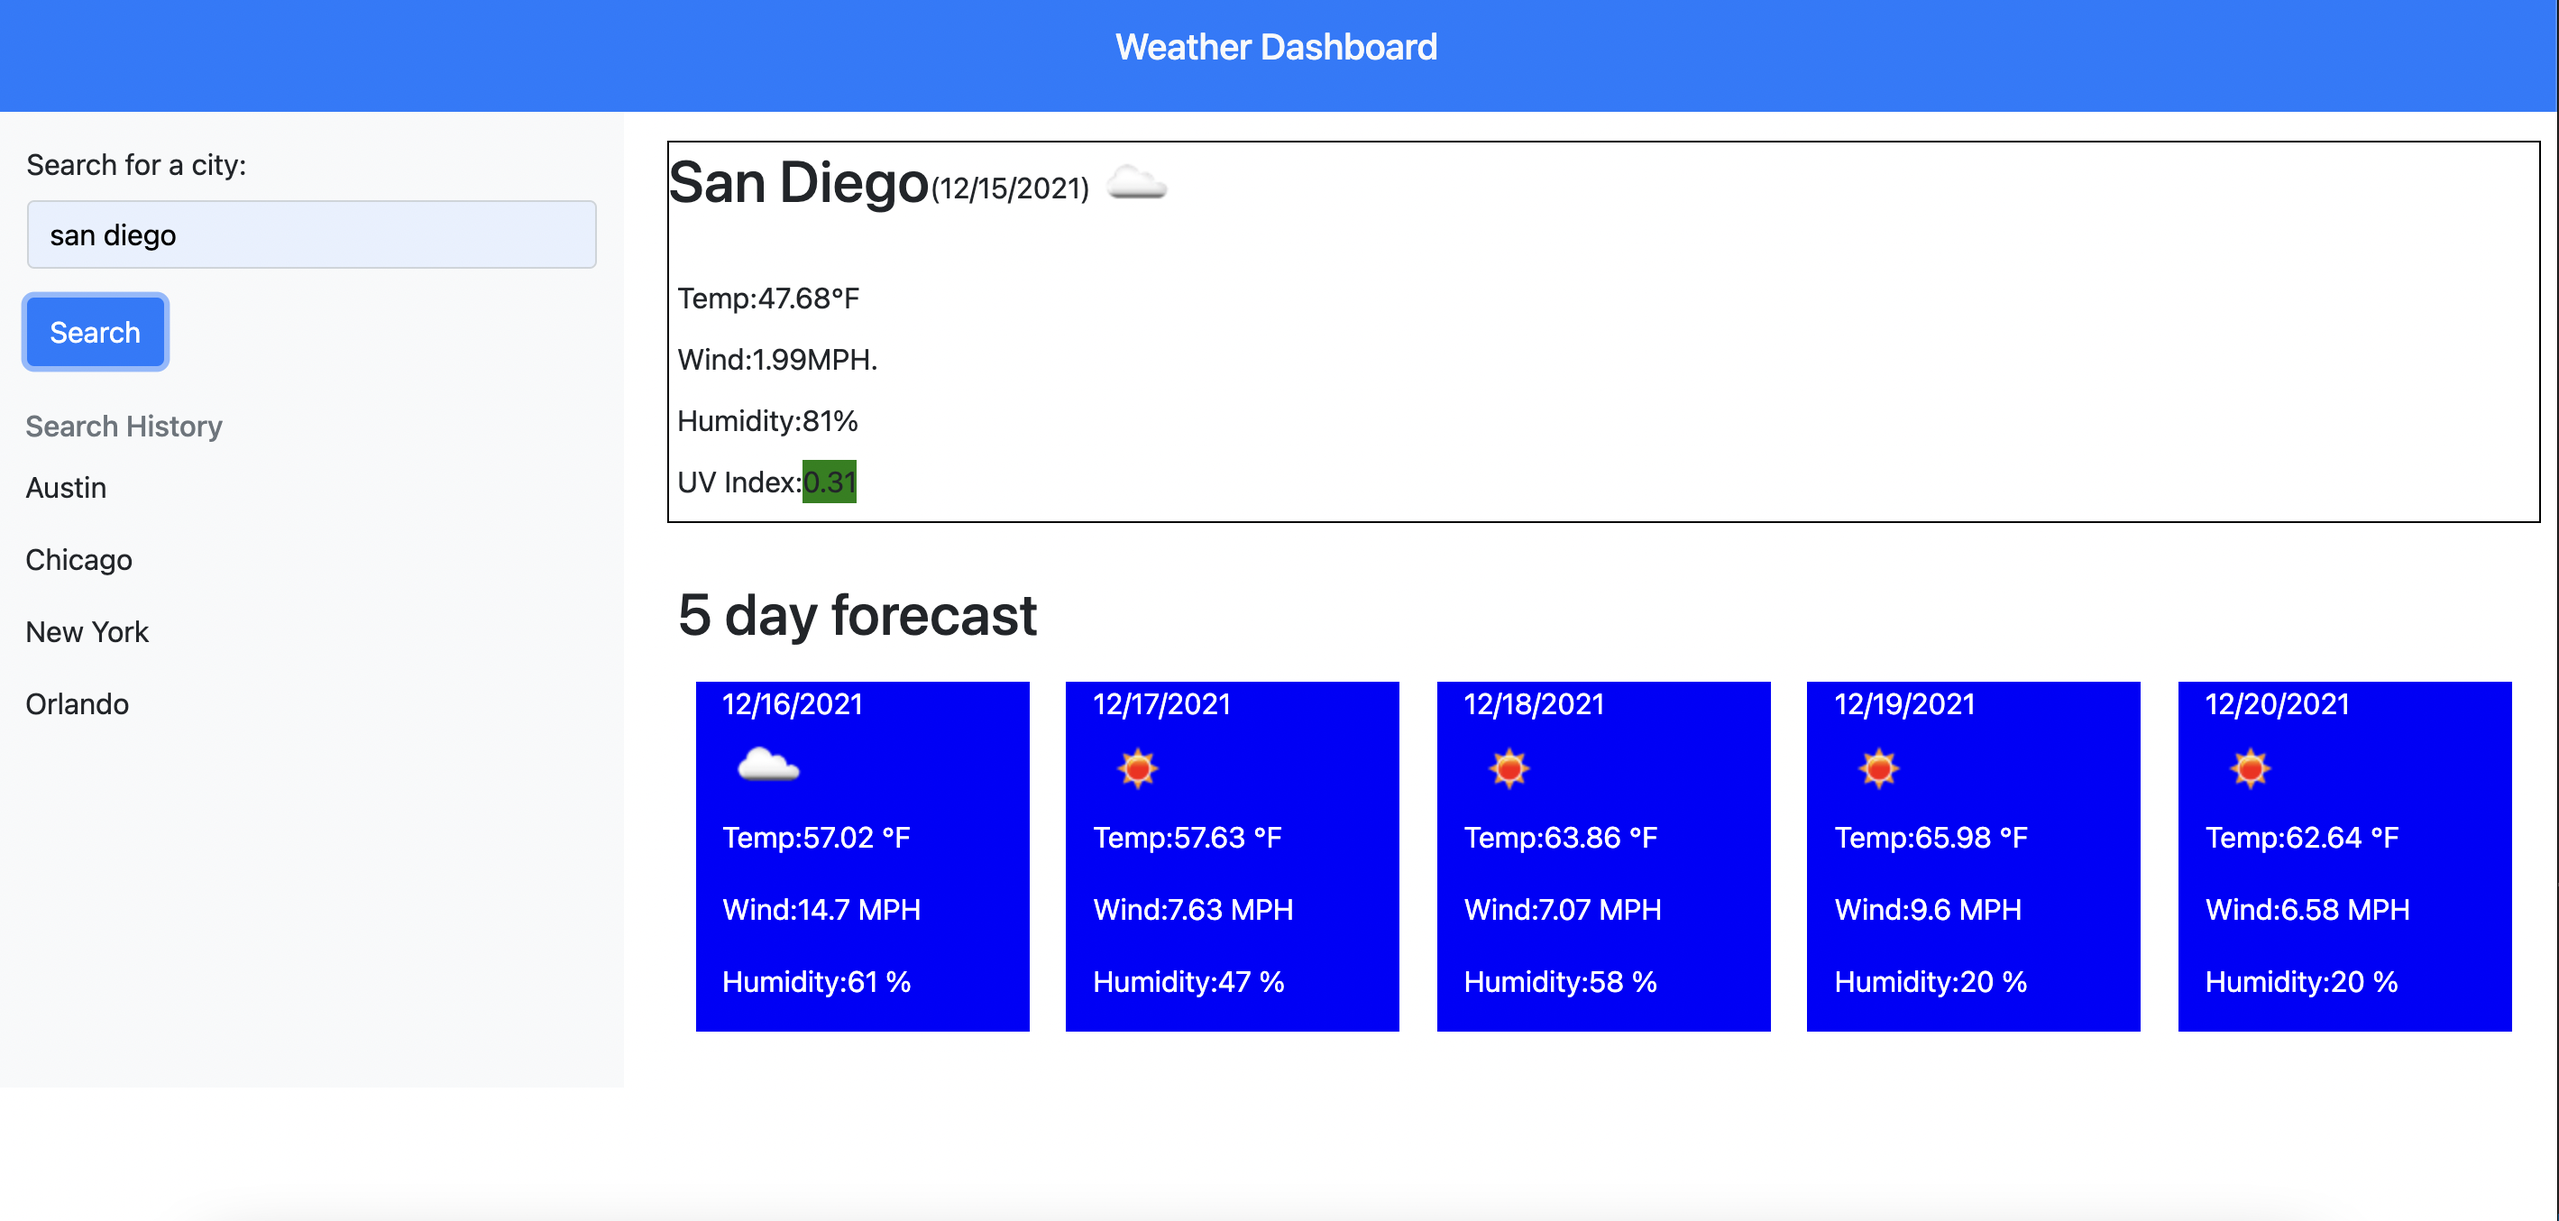
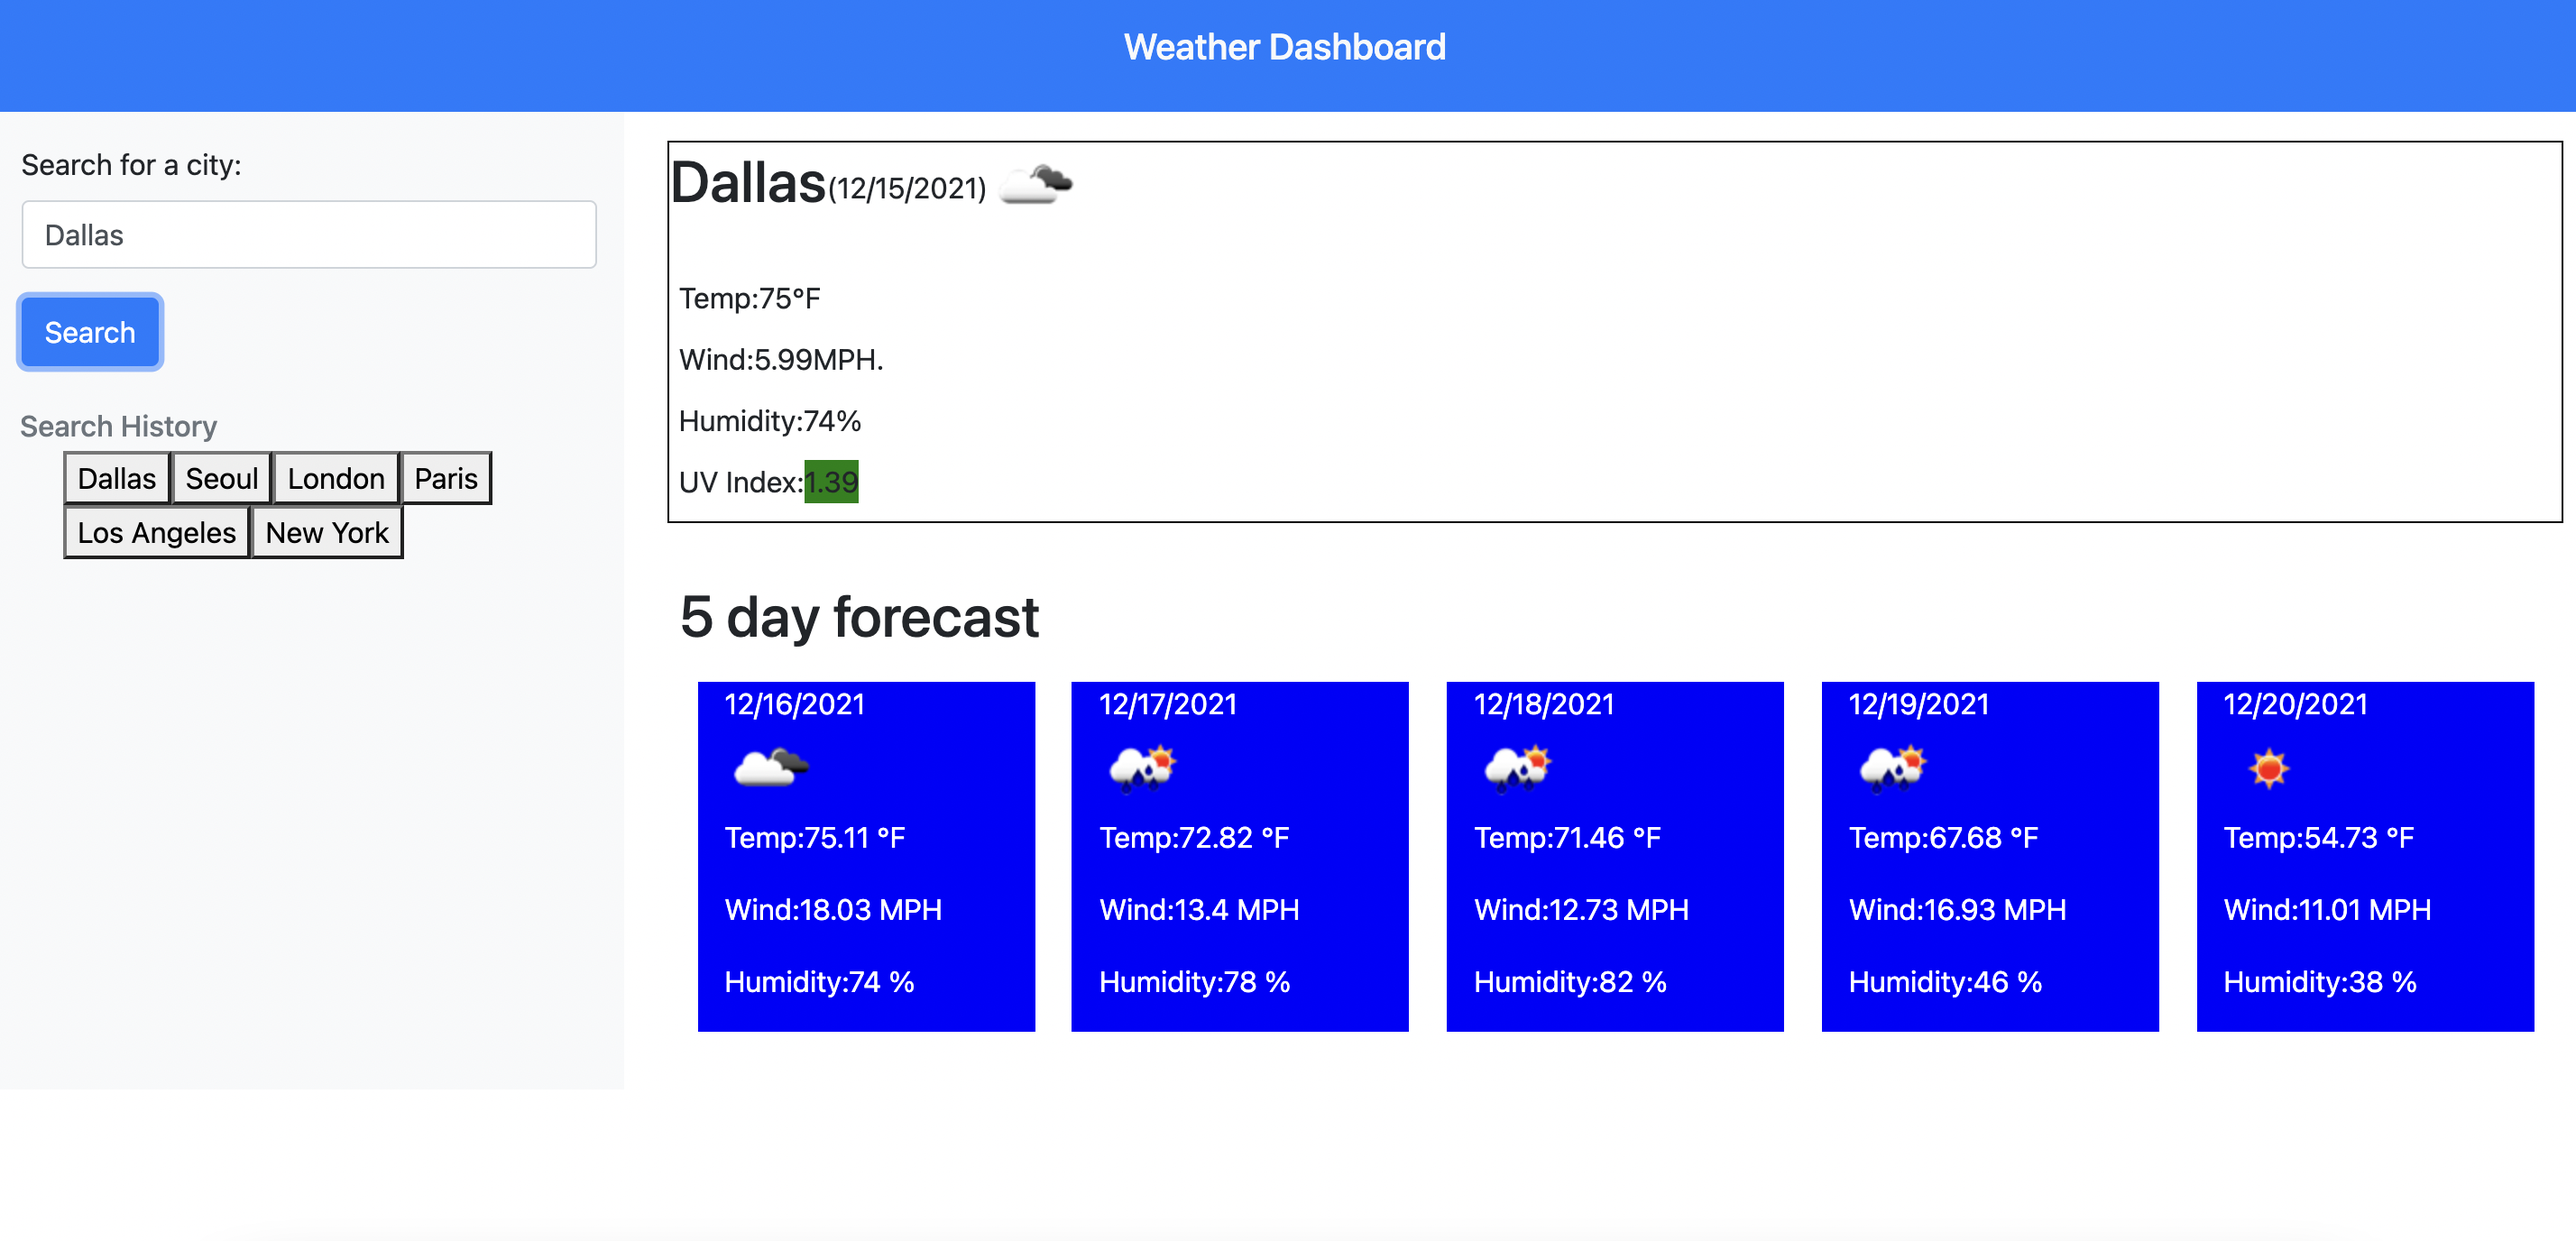
Script modified with functions to store the searched cities and click on them to search again

diff --git a/assets/js/script.js b/assets/js/script.js
@@ -226,15 +226,41 @@ function showCityForecast5(data) {
     forecastIcon5.setAttribute('src',forecastIconUrl5);
 }
 
-//Store searched cities in local storage
+//Store searched cities in local storage and create an element for them
+
+var searchHistory = document.getElementById("searchHist");
 
 function searchedCities(cityNameHeader) {
+    if (JSON.parse(localStorage.getItem("history")) == null) {
 
+        var citiesArray = [];
+        citiesArray.push(cityNameHeader);
+        var cityBtn = document.createElement("button");
+        cityBtn.setAttribute("class", "cityBtn");
+        cityBtn.textContent = cityNameHeader;
+        searchHistory.prepend(cityBtn);
+        localStorage.setItem("history", JSON.stringify(citiesArray));
+
+    } else {
+        var citiesArray = JSON.parse(localStorage.getItem("history"));
+        citiesArray.push(cityNameHeader);
+        var cityBtn = document.createElement("button");
+        cityBtn.setAttribute("class", "cityBtn");
+        cityBtn.textContent = cityNameHeader;
+        searchHistory.prepend(cityBtn);
+        localStorage.setItem("hisory", JSON.stringify(citiesArray));
+        
+    }
 }
 
 //Search for the stored cities again
 
-function clickSearchedCities(event) {
+searchHistory.addEventListener('click', searchedCitiesWeather);
 
+function searchedCitiesWeather(event) {
+    if (event.target.matches(".cityBtn")) {
+        console.log("Search city again:", event.target.textContent);
+        inputCity.value = event.target.textContent;
+        getCityWeather(); 
+    }
 }
-

diff --git a/index.html b/index.html
@@ -29,28 +29,10 @@
             <h6 class="sidebar-heading d-flex justify-content-between align-items-center px-3 mt-4 mb-1 text-muted">
               <span>Search History</span>
             </h6>
-            <ul class="nav flex-column mb-2" id="searchHist">
-              <li class="nav-item">
-                <a class="nav-link">
-                  Austin
-                </a>
-              </li>
-              <li class="nav-item">
-                <a class="nav-link">
-                  Chicago
-                </a>
-              </li>
-              <li class="nav-item">
-                <a class="nav-link">
-                  New York
-                </a>
-              </li>
-              <li class="nav-item">
-                <a class="nav-link">
-                  Orlando
-                </a>
-              </li>
-            </ul>
+            <div id="search-list">
+                <ul class="flex-column" id="searchHist">
+                </ul>
+            </div>
           </div>
         </div>
 
